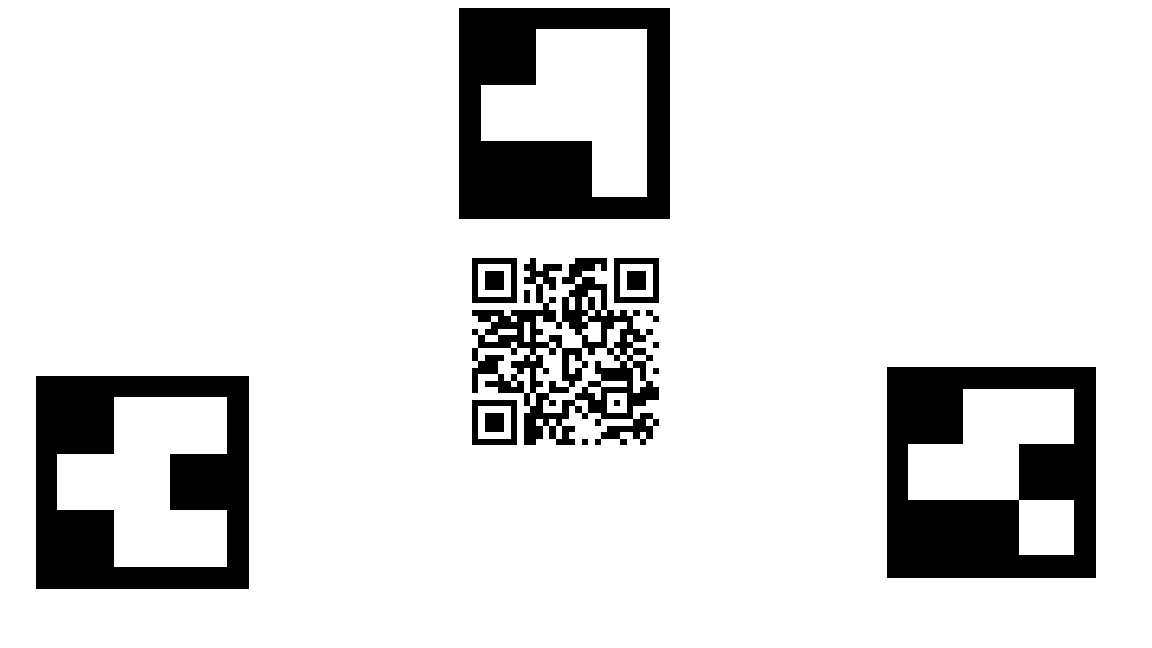
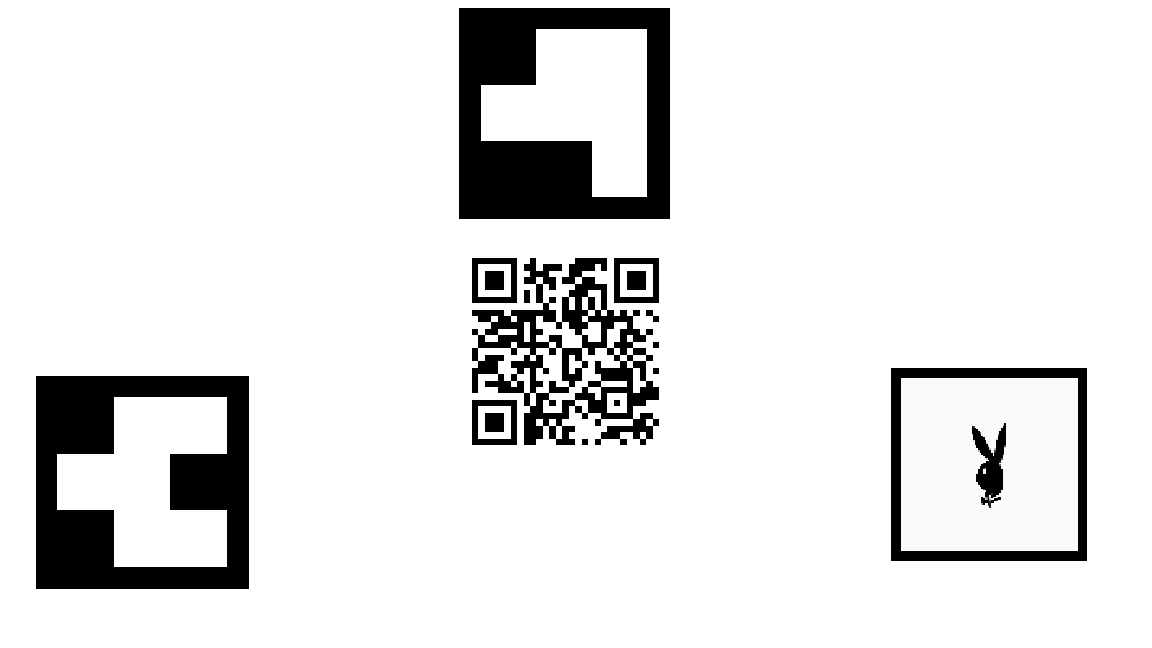
Created by Local Git

Changed region(s): [[0.75, 0.5556, 0.9688, 0.8951]]

diff --git a/index.html b/index.html
@@ -152,10 +152,10 @@
 
                 // Масив назв файлів .patt. Масив заповнюється в порядку додавання маркерів
                 // якщо замість .patt було додано баркод, на його місце в масив додається порожній рядок
-                const patternNames = ["" ,"" ,""];
+                const patternNames = ["" ,"" ,"pattern-play-boy.patt"];
                 // Масив баркодів, заповнюється одночасно з масивом патернів
                 // якщо замість баркоду був доданий .patt, на його місце масив додається -1
-                const patternBarcode = [1 ,2 ,3];
+                const patternBarcode = [1 ,2 ,-1];
                 // Масив типів контенту кожного маркера, заповнюється значеннями: зображення, модель, відео
                 const modes = ["image" ,"image" ,"image"];
                 // Масив файлів моделей, якщо немає моделі буде додано порожній рядок
